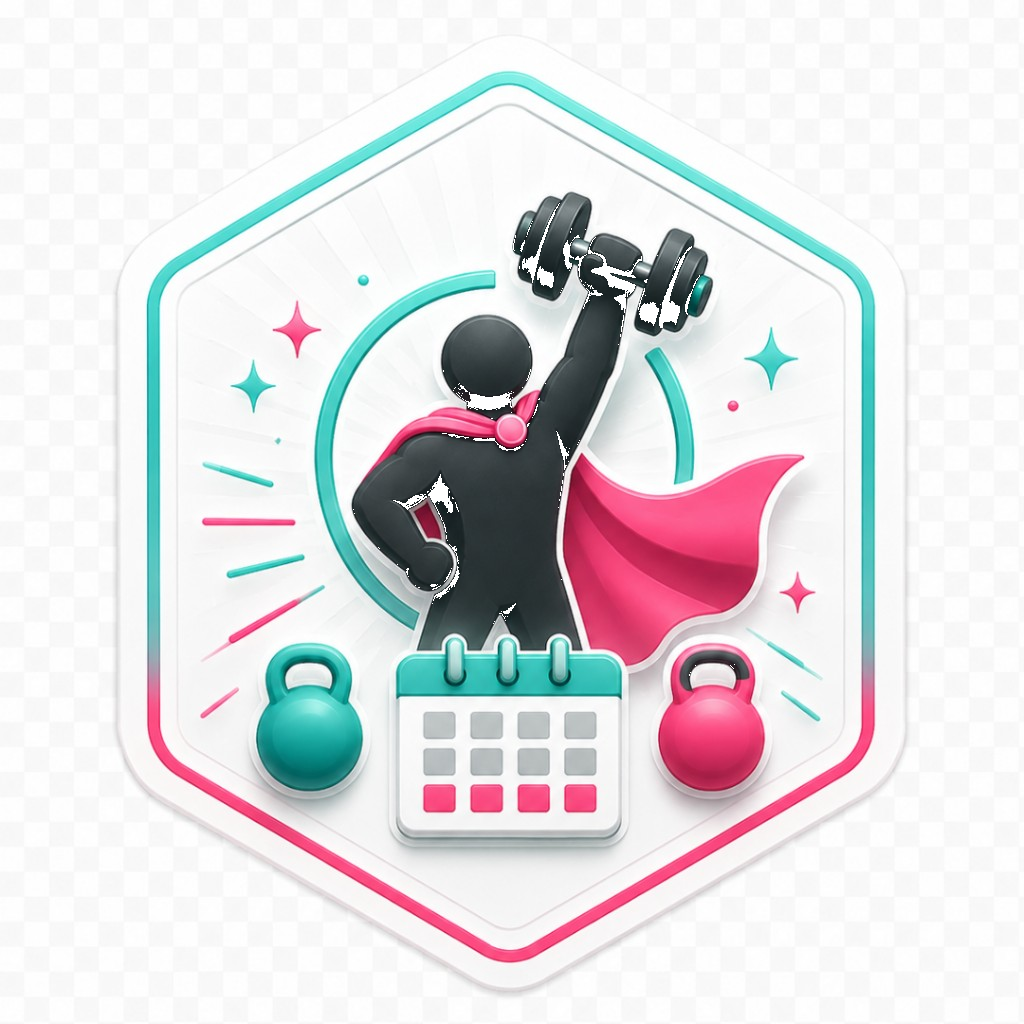
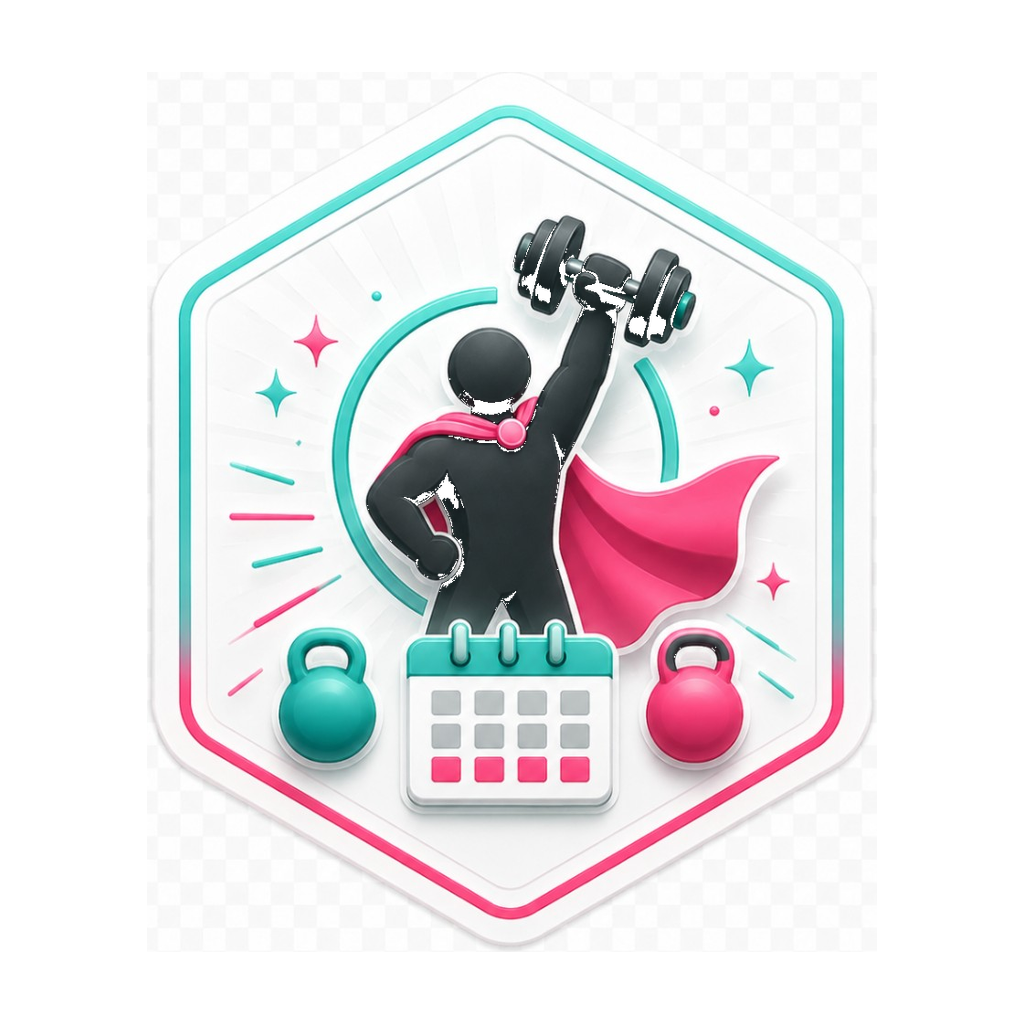
Oppdater Øktjeger og normaliser alle badges til samme størrelse.
Nytt øktjeger-bilde; alle badge-ikoner trimmes og skaleres til 1024×1024 med samme motivstørrelse som tungvekter. SVG-badges rasteriseres til PNG; felles badgeAssets-kart.

Changed region(s): [[0.0938, 0.0625, 0.875, 0.9688], [0.7188, 0.3125, 0.7812, 0.375], [0.5312, 0.3438, 0.5625, 0.375]]

diff --git a/src/features/MemberPortal.tsx b/src/features/MemberPortal.tsx
@@ -30,6 +30,7 @@ import { MOTUS } from "../app/data";
 import motusLogo from "../assets/motus-logo-transparent.svg";
 import motusSkrytekortLogo from "../assets/motus-skrytekort-logo.png";
 import { formatDateDdMmYyyy, parseStoredLogDate, resolveWorkoutLogDateTime, storedLogDatesMatch } from "../app/dateFormat";
+import { HIDDEN_MEMBER_BADGE_IMAGE_BY_ID } from "../app/badgeAssets";
 import {
   BADGE_IMAGE_POPUP_CLASS,
   BADGE_IMAGE_POPUP_WRAPPER_CLASS,
@@ -271,18 +272,6 @@ const MEMBER_AVATAR_PREFIX = "member-avatars";
 const EMPTY_REMOTE_PERIOD_PLAN_ROWS: Array<{ memberId: string; plan: PeriodSchedulePlan }> = [];
 const PERIOD_PLAN_COMPLETED_STORAGE_PREFIX = "MOTUS_PERIOD_PLAN_COMPLETED_V1:";
 const HIDDEN_BADGE_SEEN_STORAGE_PREFIX = "MOTUS_HIDDEN_BADGE_SEEN_V1:";
-const HIDDEN_BADGE_IMAGES: Record<string, string> = {
-  "may-17-workout": "/badges/21-17-mai.svg",
-  "never-two-weeks-without": "/badges/22-aldri-to-uker-uten.svg",
-  "back-again": "/badges/23-tilbake-igjen.svg",
-  "habit-sticks": "/badges/24-vanen-sitter.svg",
-  "before-sunrise": "/badges/25-for-sola.svg",
-  "evening-trainer": "/badges/04-kveldsskiftet.png",
-  "summer-loyal": "/badges/26-sommertrofast.svg",
-  "new-start": "/badges/27-ny-start.svg",
-  "easter-pump": "/badges/28-paskepump.svg",
-  "christmas-pump": "/badges/29-julepump.svg",
-};
 const HIDDEN_BADGE_POPUP_COPY: Record<string, string> = {
   "may-17-workout": "Du registrerte en økt på 17. mai. Sterk nasjonaldagsinnsats.",
   "never-two-weeks-without": "Du har holdt treningen i gang i 6 måneder uten pause over 14 dager.",
@@ -4820,7 +4809,7 @@ export function MemberPortal(props: MemberPortalProps) {
                   <p className="text-xs font-semibold uppercase tracking-[0.14em] text-slate-500">Skjult badge låst opp</p>
                   <div className={BADGE_IMAGE_POPUP_WRAPPER_CLASS}>
                     <img
-                      src={HIDDEN_BADGE_IMAGES[hiddenBadgeCelebration.id] ?? "/badges/21-17-mai.svg"}
+                      src={HIDDEN_MEMBER_BADGE_IMAGE_BY_ID[hiddenBadgeCelebration.id] ?? "/badges/21-17-mai.png"}
                       alt=""
                       className={BADGE_IMAGE_POPUP_CLASS}
                     />

diff --git a/src/features/MemberBadgesCarousel.tsx b/src/features/MemberBadgesCarousel.tsx
@@ -1,5 +1,6 @@
 import { useMemo, useState } from "react";
 import { Award, Lock, Share2, Sparkles, Target } from "lucide-react";
+import { memberBadgeImageSrc } from "../app/badgeAssets";
 import { BADGE_IMAGE_CLASS, BADGE_IMAGE_WRAPPER_CLASS } from "../app/badgeImagePresentation";
 import { MOTUS } from "../app/data";
 import { motusShareStatusMessage, shareBadgeCard } from "../app/motusShareCard";
@@ -16,29 +17,6 @@ import {
 } from "../app/memberBadges";
 
 const MOTUS_GRADIENT = `linear-gradient(135deg, ${MOTUS.turquoise} 0%, ${MOTUS.pink} 100%)`;
-
-const BADGE_IMAGES: Record<string, string> = {
-  sessions: "/badges/02-oktjeger.png",
-  "workout-club": "/badges/32-100-klubben.svg",
-  streak: "/badges/08-streak.png",
-  "monday-hero": "/badges/30-mandagshelt.png",
-  "weekend-warrior": "/badges/31-helgekriger.svg",
-  lift: "/badges/11-tungvekter.png",
-  "month-sessions": "/badges/07-vanebygger.png",
-  "training-days": "/badges/13-konsistent.png",
-  "goal-percent": "/badges/01-forste-steg.png",
-  pulsmaskin: "/badges/33-pulsmaskin.png",
-  "may-17-workout": "/badges/21-17-mai.svg",
-  "never-two-weeks-without": "/badges/22-aldri-to-uker-uten.svg",
-  "back-again": "/badges/23-tilbake-igjen.svg",
-  "habit-sticks": "/badges/24-vanen-sitter.svg",
-  "before-sunrise": "/badges/25-for-sola.svg",
-  "evening-trainer": "/badges/04-kveldsskiftet.png",
-  "summer-loyal": "/badges/26-sommertrofast.svg",
-  "new-start": "/badges/27-ny-start.svg",
-  "easter-pump": "/badges/28-paskepump.svg",
-  "christmas-pump": "/badges/29-julepump.svg",
-};
 
 const LEVEL_ROMAN: Record<BadgeLevelId, string> = {
   bronze: "I",
@@ -109,7 +87,7 @@ function BadgeCard({
   const level = LEVEL_STYLES[badge.level];
   const nextLevel = getBadgeNextLevel(badge);
   const isMaxed = !nextLevel;
-  const badgeImage = BADGE_IMAGES[badge.id] ?? "/badges/01-forste-steg.png";
+  const badgeImage = memberBadgeImageSrc(badge.id);
   async function shareBadge() {
     if (!badge.unlocked || isSharing) return;
     setIsSharing(true);

diff --git a/src/app/badgeAssets.ts b/src/app/badgeAssets.ts
@@ -1,0 +1,40 @@
+/** Felles badge-bilder (PNG 1024×1024, normalisert visuell størrelse). */
+export const MEMBER_BADGE_IMAGE_BY_ID: Record<string, string> = {
+  sessions: "/badges/02-oktjeger.png",
+  "workout-club": "/badges/32-100-klubben.png",
+  streak: "/badges/08-streak.png",
+  "monday-hero": "/badges/30-mandagshelt.png",
+  "weekend-warrior": "/badges/31-helgekriger.png",
+  lift: "/badges/11-tungvekter.png",
+  "month-sessions": "/badges/07-vanebygger.png",
+  "training-days": "/badges/13-konsistent.png",
+  "goal-percent": "/badges/01-forste-steg.png",
+  pulsmaskin: "/badges/33-pulsmaskin.png",
+  "may-17-workout": "/badges/21-17-mai.png",
+  "never-two-weeks-without": "/badges/22-aldri-to-uker-uten.png",
+  "back-again": "/badges/23-tilbake-igjen.png",
+  "habit-sticks": "/badges/24-vanen-sitter.png",
+  "before-sunrise": "/badges/25-for-sola.png",
+  "evening-trainer": "/badges/04-kveldsskiftet.png",
+  "summer-loyal": "/badges/26-sommertrofast.png",
+  "new-start": "/badges/27-ny-start.png",
+  "easter-pump": "/badges/28-paskepump.png",
+  "christmas-pump": "/badges/29-julepump.png",
+};
+
+export const HIDDEN_MEMBER_BADGE_IMAGE_BY_ID: Record<string, string> = {
+  "may-17-workout": MEMBER_BADGE_IMAGE_BY_ID["may-17-workout"],
+  "never-two-weeks-without": MEMBER_BADGE_IMAGE_BY_ID["never-two-weeks-without"],
+  "back-again": MEMBER_BADGE_IMAGE_BY_ID["back-again"],
+  "habit-sticks": MEMBER_BADGE_IMAGE_BY_ID["habit-sticks"],
+  "before-sunrise": MEMBER_BADGE_IMAGE_BY_ID["before-sunrise"],
+  "evening-trainer": MEMBER_BADGE_IMAGE_BY_ID["evening-trainer"],
+  "summer-loyal": MEMBER_BADGE_IMAGE_BY_ID["summer-loyal"],
+  "new-start": MEMBER_BADGE_IMAGE_BY_ID["new-start"],
+  "easter-pump": MEMBER_BADGE_IMAGE_BY_ID["easter-pump"],
+  "christmas-pump": MEMBER_BADGE_IMAGE_BY_ID["christmas-pump"],
+};
+
+export function memberBadgeImageSrc(badgeId: string): string {
+  return MEMBER_BADGE_IMAGE_BY_ID[badgeId] ?? "/badges/01-forste-steg.png";
+}

diff --git a/src/app/badgeImagePresentation.ts b/src/app/badgeImagePresentation.ts
@@ -4,12 +4,12 @@ export const BADGE_IMAGE_BOX_CLASS = "h-[5.4rem] w-[5.4rem]";
 export const BADGE_IMAGE_WRAPPER_CLASS =
   `${BADGE_IMAGE_BOX_CLASS} overflow-hidden rounded-xl bg-white`;
 
-/** lighten på hvit flate gjør nesten-svarte piksler gjennomsiktige visuelt. */
+/** Ingen ekstra padding — motivet er normalisert til samme canvas som tungvekter. */
 export const BADGE_IMAGE_CLASS =
-  "h-full w-full object-contain p-1.5 drop-shadow-sm mix-blend-lighten";
+  "h-full w-full object-contain p-0 drop-shadow-sm mix-blend-lighten";
 
 export const BADGE_IMAGE_POPUP_WRAPPER_CLASS =
   "mx-auto mt-4 flex h-36 w-36 items-center justify-center overflow-hidden rounded-xl bg-white";
 
 export const BADGE_IMAGE_POPUP_CLASS =
-  "h-full w-full object-contain p-1.5 drop-shadow-sm mix-blend-lighten";
+  "h-full w-full object-contain p-0 drop-shadow-sm mix-blend-lighten";
